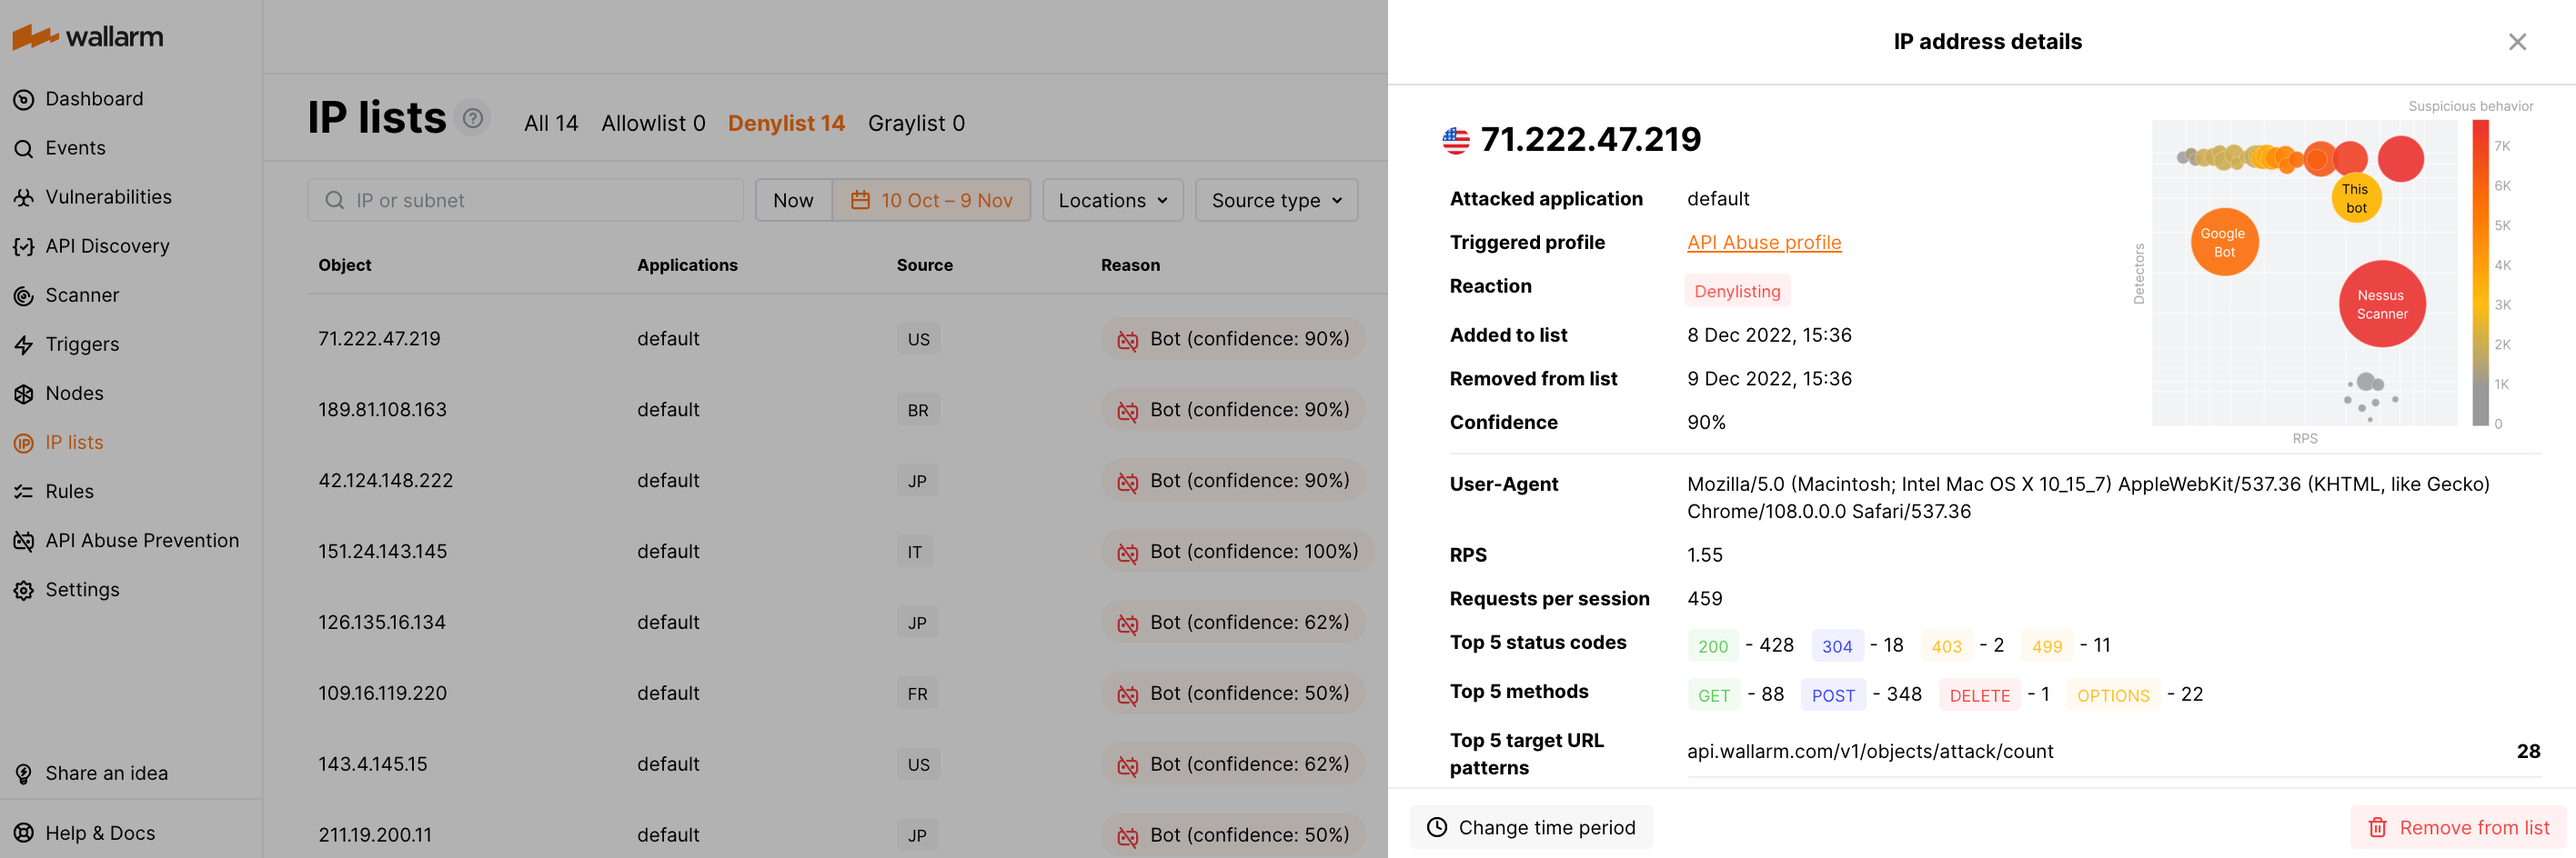
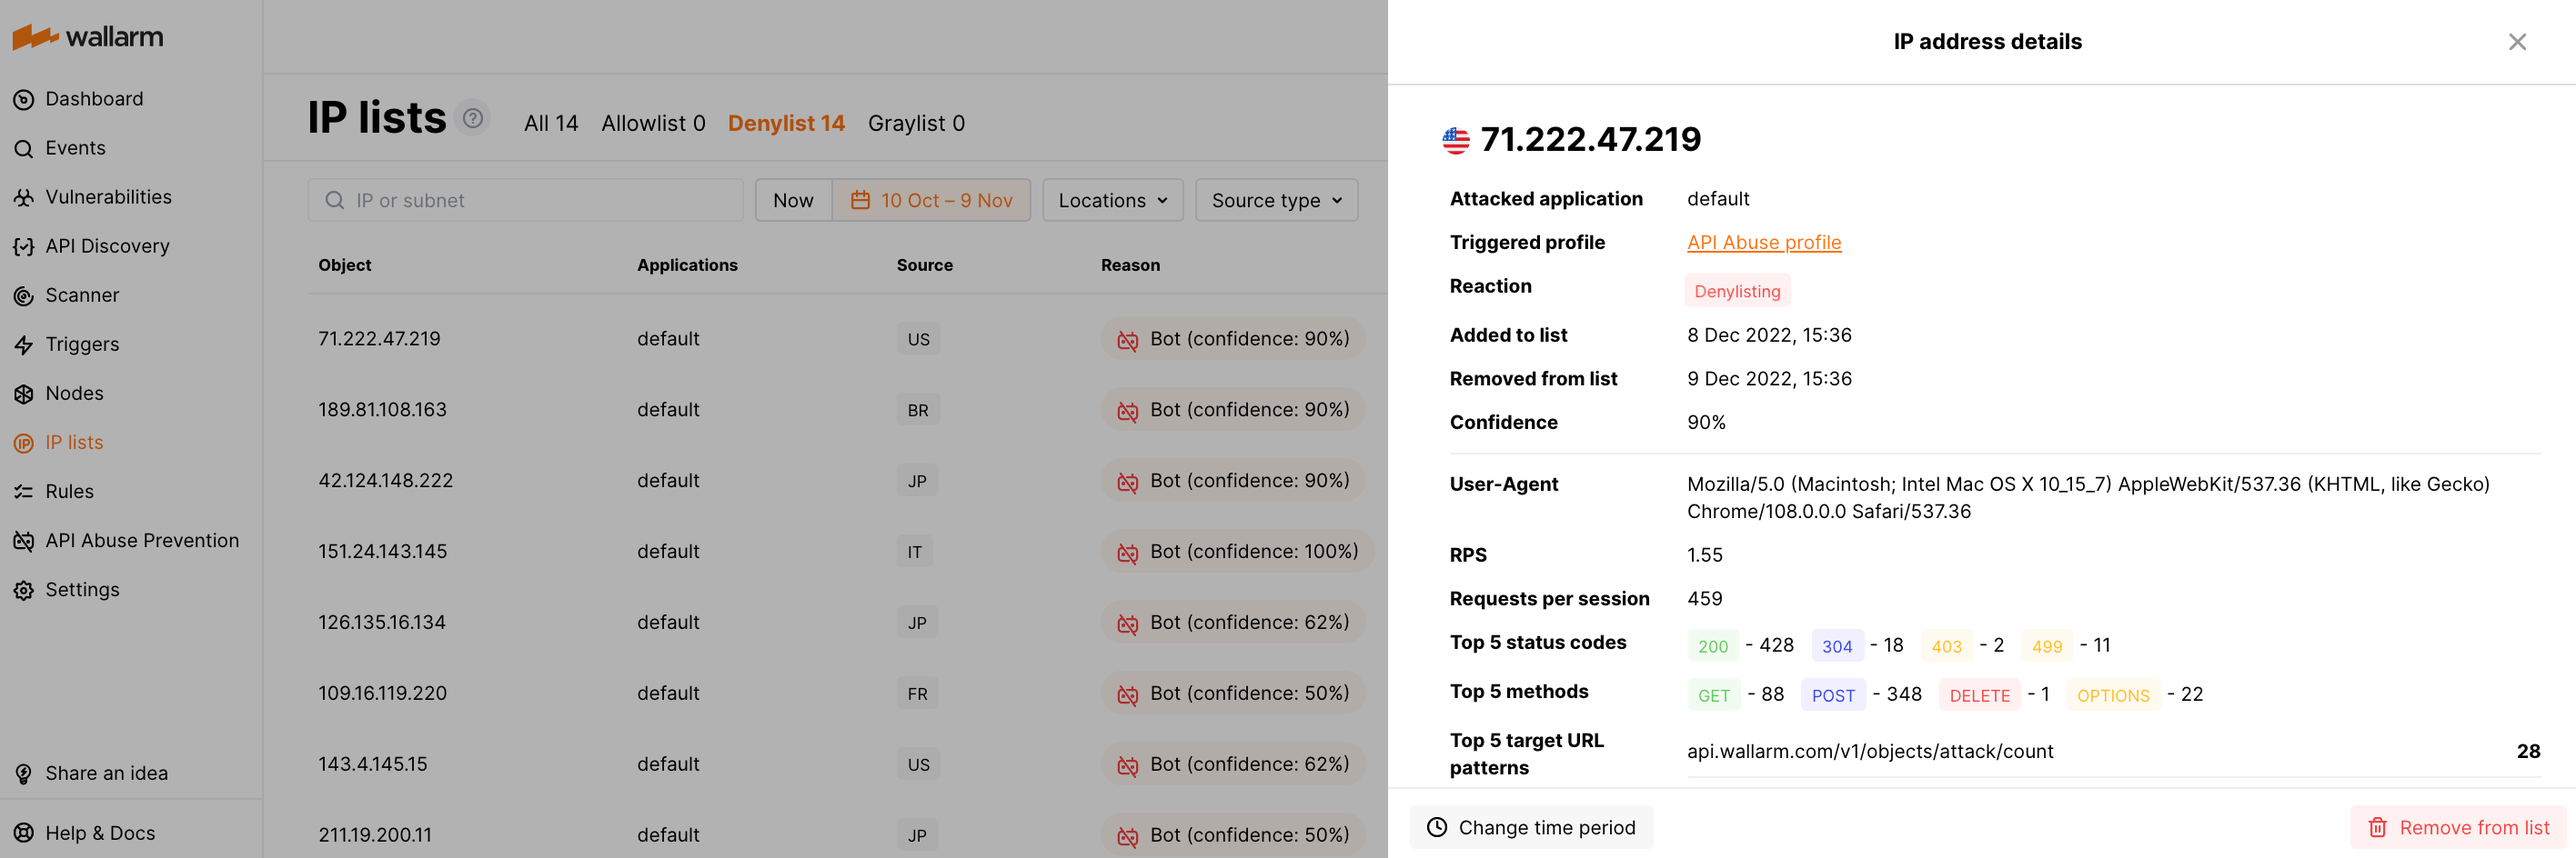
DOCS-1994 Fixes due to comments (iteration 3)

Changed region(s): [[0.839, 0.1229, 0.9944, 0.4915]]

diff --git a/docs/latest/user-guides/api-abuse-prevention.md b/docs/latest/user-guides/api-abuse-prevention.md
@@ -48,7 +48,10 @@ You can also explore bot API abuse attacks performed by bots in Wallarm Console 
 
 ![!API Abuse events](../images/about-wallarm-waf/abi-abuse-prevention/api-abuse-events.png)
 
-Bot information is visualized in three bubble plots. In all plots, the bigger the bubble, the closer it to red color and to the right upper corner - the more reasons to consider this IP to be a bot. On the plots, you also can compare you current bot with the other detected bots, but not more than 30 most suspicious.
+Bot information is visualized in three bubble plots. In all plots, the bigger the bubble, the closer it to red color and to the right upper corner - the more reasons to consider this IP to be a bot. On the plots, you also can compare you current bot with the other detected bots.
+
+!!! info "What other bots are displayed?"
+    Besides **this bot**, the bots that attacked the same application within the past 24 hours, but not more than 30 most suspicious, will be displayed.
 
 The bubble plots:
 
@@ -64,7 +67,7 @@ The bubble plots:
     * Bubble size: request non-uniqueness, the more the IP requested the same (not unique) API endpoints, the larger the size.
     * Color: scheduled requests, the more the IP requested API endpoints due to the schedule (the same time intervals), the closer to the red.
     * Horizontally: the more RPS (requests per second), the farther to the right.
-    * Vertically: the faster the IP sends the requests, the higher on the graph. Comparing to RPS: IP can send 3 requests per second (which is not a lot), but do that within 3 milliseconds (which is very fast).
+    * Vertically: the higher the request rate (how fast the IP sends the requests), the higher on the graph. Comparing to RPS: IP can send 3 requests per second (which is not a lot), but do that within 3 milliseconds (which is very fast).
 
 * **Bot scope** displays bot relation to its targets, including:
 
